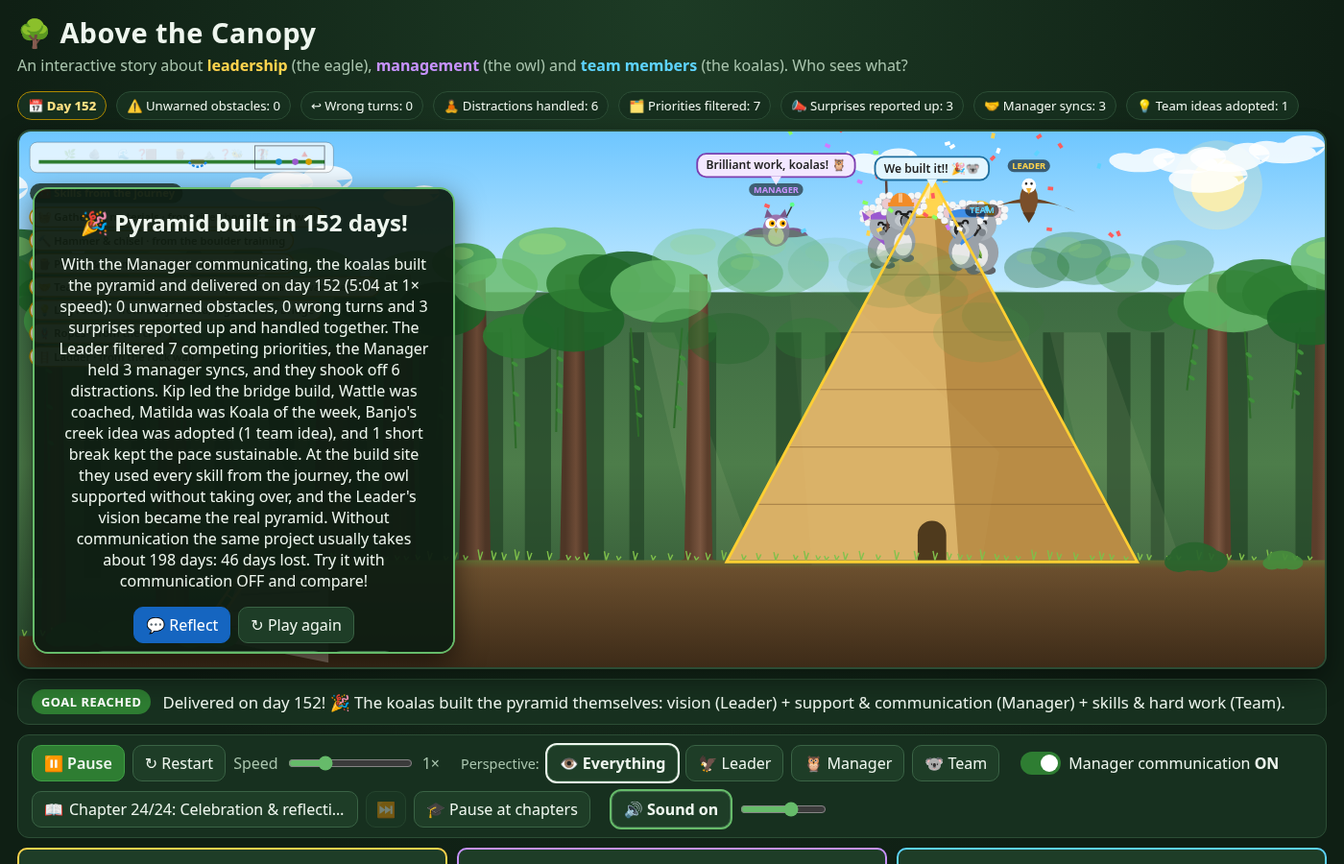
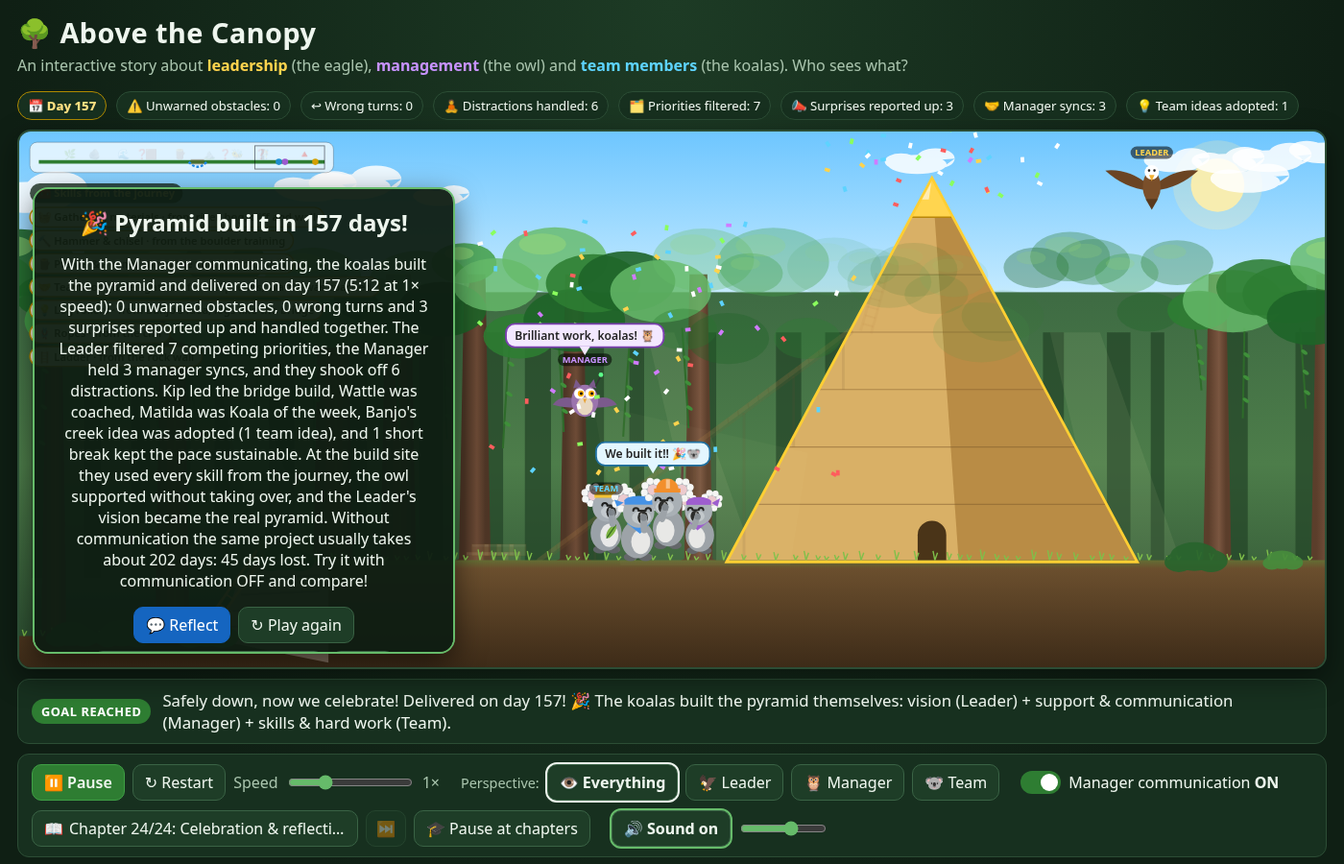
v7.1: team huddle before the build, climb down safely before celebrating
- Team huddle (TEAM HUDDLE) at the build site during the last eagle meeting: circle formation, queued turn-by-turn bubbles, plan sketched in the dirt, paws in; short confused OFF variant
- Koalas never walk on the spot: walk cycle only when actually moving, look-around while waiting
- After the capstone the koalas climb down one at a time (ladder, ramp) and celebrate on the ground; gear cleared afterwards
- Chapter text, README, docs images and typical days (157 / 202) updated

diff --git a/src/AboveTheCanopy/wwwroot/js/canopy.js b/src/AboveTheCanopy/wwwroot/js/canopy.js
@@ -325,11 +325,11 @@ function reset() {
     leader: { x: START_X + 260, y: LEADER_Y, beam: null, beamT: 0, ox: 0, oy: 0, rot: 0, dist: null, meeting: null },
     bubbles: [], queue: { leader: [], manager: [], team: [], visitor: [] }, pulses: [], events: [], particles: [],
     caption: '', phase: '', capT: 0, cap: null, capQ: [], pend: [], finished: false, introCam: 'team', selected: null, hover: -1,
-    idea: { started: false, adopted: false, go: false, goT: 0, saved: 0, bulb: false }, drop: null, leafFly: null, kb: [], kpos: [],
+    idea: { started: false, adopted: false, go: false, goT: 0, saved: 0, bulb: false }, drop: null, leafFly: null, kb: [], kpos: [], huddle: { on: false, done: false, t: 0, spk: -1, wrapT: -1, capLater: false },
     coachDone: false, breakDone: false, marks: new Set(['start']), chapter: 0, silent: false, quiet: false, tapT: 0, tapN: 0, finArgs: null, teachAt: null,
     nextLeaderTalk: 26, leaderTalkI: 0, nextCheckin: 34, checkinI: 0,
     build: { on: false, t0: 0, c: [0, 0, 0, 0, 0, 0], wrongP: 0, wrongShow: false, pl: [0, 0, 0, 0, 0, 0, 0], doneK: [], rampL: -1, rampG: 0, ladder: 0,
-      rollers: false, cap: null, capSet: false, solid: 0, stock: 0, shaped: 0, rejects: 0, skills: [], kp: null, kpOn: false, tgt: null, mt: null, mcarry: false, check: 0, climbR: null },
+      rollers: false, cap: null, capSet: false, solid: 0, stock: 0, shaped: 0, rejects: 0, skills: [], kp: null, kpOn: false, tgt: null, mt: null, mcarry: false, check: 0, climbR: null, downR: null, clearT: null },
   };
   camX = camTarget = 0;
   call('OnRestarted');
@@ -408,7 +408,8 @@ function agentPos(who) {
   if (who === 'leader') return { x: S.leader.x + S.leader.ox, y: S.leader.y + S.leader.oy };
   if (who === 'manager') return { x: S.mgr.x + S.mgr.ox, y: S.mgr.y + S.mgr.oy };
   if (who === 'visitor') return S.mgr.meeting ? mgrVisitorPos() : { x: -9999, y: 0 };
-  const B = S.build;
+  const B = S.build, Hd = S.huddle;
+  if (Hd.on && Hd.spk >= 0 && S.kpos[Hd.spk]) { const K = S.kpos[Hd.spk]; return { x: K.x, y: K.y - 60 * K.s / KOALA_SCALE }; }
   if (B.on && B.kpOn) { const ax = B.kp.reduce((a, P) => a + P.x, 0) / 4, ay = B.kp.reduce((a, P) => a + P.y, 0) / 4; return { x: ax, y: ay - 62 }; }
   const tx = S.team.x;
   const lo = laneOffset(tx);
@@ -652,6 +653,8 @@ function update(dt) {
   if (S.teachAt && S.t >= S.teachAt.t) { const i = S.teachAt.idx; S.teachAt = null; if (settings.teach) { settings.playing = false; snd.setPaused(true); call('OnTeachable', i); } }
 
   // --- team ---
+  tm.moved = tm.lastX != null && Math.abs(tm.x - tm.lastX) > 1e-4; tm.lastX = tm.x; tm.stillT = tm.moved ? 0 : (tm.stillT || 0) + dt; // v7.1: walk cycles only when actually moving
+  if (S.huddle.on) updateHuddle(dt);
   if (tm.mode === 'walk' && !S.breakDone && tm.x >= BREAK_X && !S.finished && (!settings.comms || mgFree())) startBreak();
   if (tm.mode === 'walk') {
     const next = S.obstacles.concat(S.surprises).filter(o => !o.done).sort((a, b) => a.x - b.x)[0];
@@ -668,6 +671,7 @@ function update(dt) {
     } else if (nx >= stopX) {
       tm.x = stopX;
       if (next) { next.active = true; runSeq(next.isSurprise ? surpriseSeq(next) : sequenceFor(next, next.informed), next); }
+      else if (!S.huddle.done) { if (!S.huddle.on) startHuddle(); } // v7.1: a team huddle before the build
       else if (!ld.meeting && !S.build.on && S.meetings.every(m => m.done || m.atX === Infinity)) startBuild(); // v7: then the koalas build the pyramid
     } else tm.x = nx;
   } else if (tm.mode === 'hack') {
@@ -850,14 +854,15 @@ function finish() {
   S.finished = true; tm.mode = 'done'; tm.mood = 'happy';
   sfx('fanfare');
   caption(settings.comms
-    ? `Delivered on day ${days}! 🎉 The koalas built the pyramid themselves: vision (Leader) + support & communication (Manager) + skills & hard work (Team).`
-    : `Finally delivered on day ${days}! 🎉 The koalas built the pyramid, but without communication it took a redo and many extra days.`, 'Goal reached', { force: true });
-  S.mgr.task = { kind: 'build', t: 0 }; S.mgr.busy = false; B.mt = { x: GOAL_X - 175, dy: cTop(4) - 50 - MANAGER_Y }; B.mcarry = false; // everyone gathers at the top
+    ? `Safely down, now we celebrate! Delivered on day ${days}! 🎉 The koalas built the pyramid themselves: vision (Leader) + support & communication (Manager) + skills & hard work (Team).`
+    : `Safely down at last. Finally delivered on day ${days}! 🎉 The koalas built the pyramid, but without communication it took a redo and many extra days.`, 'Goal reached', { force: true });
+  S.mgr.task = { kind: 'build', t: 0 }; S.mgr.busy = false; B.mt = { x: 5160, dy: GROUND - 150 - MANAGER_Y }; B.mcarry = false; B.clearT = S.t; // everyone celebrates on the ground
   bubble('team', 'We built it!! 🎉🐨', 5);
   later(1.0, () => bubble('manager', 'Brilliant work, koalas! 🦉', 4));
   later(1.8, () => bubble('leader', settings.comms ? 'You built the vision. Proud of every one of you! 🦅' : 'We got there in the end. Proud of you all! 🦅', 4));
   later(4.6, () => bubble('team', 'Group hug!! 🤗', 4));
-  for (let i = 0; i < 80; i++) confetti(GOAL_X + (rand() - 0.5) * 140, cTop(4) - 50, 1);
+  for (let i = 0; i < 80; i++) confetti(5250 + (rand() - 0.5) * 160, GROUND - 90, 1);
+  for (let i = 0; i < 30; i++) confetti(GOAL_X + (rand() - 0.5) * 60, CAP_BASE - 20, 1);
   S.day = days; call('OnDay', days);
   S.finArgs = [Math.round(S.t), days, tm.wrong, tm.surprises, tm.distractions, tm.priorities, tm.reported, tm.syncs, tm.ideas, tm.breaks, settings.comms];
   call('OnFinished', ...S.finArgs);
@@ -1011,6 +1016,8 @@ function stations(k, p, o = {}) {
   return [kip, ban, mat, wat];
 }
 function holdStations() { return S.build.tgt || S.build.kp.map(P => ({ x: P.x, y: P.y, face: 1 })); }
+// v7.1: where the koalas celebrate, safely back on the ground beside the pyramid (first one down walks furthest).
+function grounds() { return [[5265, 2, -1], [5230, 6, 1], [5195, 0, 1], [5300, 8, -1]].map(([x, lane, face]) => ({ x, y: GROUND, lane, face })); }
 function finals() { return FINAL.map(([dx, lane]) => ({ x: GOAL_X + dx, y: cTop(4), lane, face: dx < 0 ? 1 : -1 })); }
 // The supply line: blocks travel from the pile, paw to paw, up the ramp (on rollers, pulled by rope) and the ladder, to Kip.
 // Each point is [x, y, height of the block above the feet].
@@ -1088,6 +1095,17 @@ function buildSeq(on) {
     dur, b: 'caplift', mood: 'lift', phase: 'TEAMWORK', cap, onStart: () => { sfx('haul'); kbadge(0, '🤝 All four, together', 3.5, '#ffe082'); },
     tick: p => { B.cap.lift = p; if (p >= 1 && !B.capSet) { B.capSet = true; sfx('block'); } },
   });
+  // v7.1: after the capstone, back down one at a time (ladder, then the ramp) before anyone celebrates.
+  const down = (dur, cap, say) => ({
+    dur, b: 'down', phase: 'SAFETY', cap, say,
+    onStart: () => {
+      const K = B.kp, t4 = cTop(4), G = grounds(), P = i => [K[i].x, K[i].y];
+      const over = [[GOAL_X + 26, t4], [GOAL_X + 24, CAP_BASE], [GOAL_X - 24, CAP_BASE], [GOAL_X - 26, t4]];
+      const rest = i => [LADDER.t, LADDER.b, rampTop(3), [RAMP_FOOT, GROUND], [G[i].x, GROUND]];
+      B.downR = [0, 1, 2, 3].map(i => [P(i), ...(K[i].x > GOAL_X ? over : []), ...rest(i)]);
+    },
+    route: (i, p) => { const q = clamp((p - [0.14, 0.28, 0.42, 0][i]) / 0.56, 0, 1); return along(B.downR[i], q * q * (3 - 2 * q)); },
+  });
   const reality = (dur, cap, leaderSays) => ({
     dur, b: 'reality', phase: 'VISION → REALITY', cap, capPrio: 2,
     onStart: () => { B.capSet = true; mark('reality'); sfx('vision'); S.leader.beam = 'goal'; S.leader.beamT = 3; later(0.7, () => bubble('leader', leaderSays, 2.8, true)); },
@@ -1120,9 +1138,10 @@ function buildSeq(on) {
     climb(3.4, 'All four koalas climb to the top: this last stone goes on together.'),
     capLift(3.0, 'Together, all four lift the capstone and set it on top...'),
     reality(3.2, 'Vision becomes reality: the pyramid the team built fills the Leader\'s blueprint exactly, and the outline turns solid. ✨', 'That\'s it! That\'s the vision! 🦅✨'),
+    down(6.0, 'Safety first, right to the end: one at a time, the koalas climb back down the ladder and the ramp.', 'Careful now, one at a time! 🪜'),
   ];
   return [
-    { dur: 3.0, b: 'arrive', mood: 'confused', phase: 'No communication', cap: 'They\'ve reached the spot, but with communication OFF nobody ever told the koalas what the final product looks like.', say: 'So... what are we building? 🤔',
+    { dur: 3.0, b: 'arrive', mood: 'confused', phase: 'No communication', cap: 'They\'ve reached the spot, but with communication OFF nobody ever told the koalas what the final product looks like.', say: 'Right... where do we even start? 🤷',
       onStart: () => later(1.2, () => bubble('manager', '(...keeps it to themselves 🤐)', 2.4)) },
     { dur: 6.0, b: 'gather', gather: 'stones', lost: true, phase: 'BUILD', cap: 'They fan out for stone, unsure what they need or how much...', say: 'Big rocks? Small rocks? 🤷',
       onStart: () => skill('🧺', 'Gathering materials', 'river, bog, cliff and wall'), tick: p => { B.stock = Math.max(B.stock, [0, 1, 2, 3].filter(i => gatherPose(i, p, { lost: true }).delivered).length * 2); } },
@@ -1146,6 +1165,7 @@ function buildSeq(on) {
     climb(3.8, 'All four koalas climb to the top.'),
     capLift(3.4, 'Together they lift the capstone and set it on top...'),
     reality(3.0, 'Finally the pyramid matches the vision, but many days later than it could have.', 'There it is... at last. 🦅'),
+    down(6.4, 'Tired, the koalas climb back down carefully, one at a time.', 'Slowly... one at a time. 🪜'),
   ];
 }
 // Runs every update while building: koalas walk to their stations, blocks are counted (for sound), courses complete.
@@ -1161,10 +1181,11 @@ function updateBuild(dt) {
   if (!B.kpOn) return;
   if (st && st.route) {
     B.kp.forEach((P, i) => { const q = st.route(i, p), dx = q.x - P.x; P.mv = Math.hypot(dx, q.y - P.y) > 0.05; if (Math.abs(dx) > 0.02) P.dir = Math.sign(dx); P.x = q.x; P.y = q.y; });
-    B.tgt = finals(); return;
+    B.tgt = st.b === 'down' ? grounds() : finals(); return;
   }
   let T = st && st.st ? st.st(p) : null;
-  if (!T && (S.finished || (st && (st.b === 'caplift' || st.b === 'reality')))) T = finals();
+  if (!T && S.finished) T = grounds();
+  if (!T && st && (st.b === 'caplift' || st.b === 'reality')) T = finals();
   if (!T) T = B.tgt; if (!T) return;
   B.tgt = T;
   const V = 170 * dt;
@@ -1192,7 +1213,7 @@ function buildPoses(st, sp) {
     else if (b === 'hold') mood = st.mood || '';
     else if (near) mood = 'carry';
     else if (b === 'course' || b === 'capflow') mood = i === 2 ? 'chisel' : i === 3 && st.rope ? 'haul' : i === 3 && !on ? 'struggle' : 'work';
-    if (P.mv && Math.abs(T[i] ? T[i].y - P.y : 0) > 20 && b !== 'climb') hop = 4; // hopping up a step
+    if (P.mv && Math.abs(T[i] ? T[i].y - P.y : 0) > 20 && b !== 'climb' && b !== 'down') hop = 4; // hopping up a step
     let x = P.x;
     if (!on && b === 'course' && !P.mv) x += Math.sin(S.t * 2.1 + i * 1.7) * 5; // unsure, shuffling about
     return { x, y: P.y, lane, flip: P.mv ? P.dir < 0 : t.face < 0, carry, mood, moving: P.mv, hop };
@@ -1210,6 +1231,75 @@ function flowBlocks(st, sp) {
   return out;
 }
 function blocksIn(k, wide) { const h = wide ? cHalf(k - 1) : cHalf(k), n = Math.max(1, Math.round(2 * h / 36)); return n * 2 + 1; }
+
+
+// ---------- v7.1: the team huddle (a stand-up before the build) ----------
+// Formation: a little circle, each koala facing the middle. [dx from the team's centre, lane (depth), faces left]
+const HUDDLE = [[60, 9, true], [24, -9, true], [-24, -9, false], [-60, 9, false]];
+const HUDDLE_OFF_CAP = 'The koalas huddle too, but nobody ever told them what the final product looks like. A team can\'t self-organise around a goal it can\'t see.';
+const HUDDLE_LINES = {
+  on: [[0, 0.9, "Kip: Okay team, next steps? 👉🔺"], [2, 2.7, "Matilda: I'll shape the stone. 🔨"], [1, 4.5, "Banjo: Rollers from the logs, like the bridge! 🪵"], [3, 6.3, "Wattle: I can haul. I've got this now! 💪"]],
+  off: [[0, 0.9, "Kip: So... what's next?"], [1, 2.6, "Banjo: What are we even building? 🤔"], [2, 4.3, "Matilda: Something big? A box?"]],
+};
+function startHuddle() {
+  const H = S.huddle, on = settings.comms; H.on = true; H.t = 0; H.spk = -1; H.wrapT = -1;
+  if (on || !S.leader.meeting) caption(on ? 'The team meets to plan their next steps: teams self-organise when they understand the goal.' : HUDDLE_OFF_CAP, 'TEAM HUDDLE', { hold: 3.4 });
+  else H.capLater = true; // OFF: the Leader's meeting holds the caption bar, so say it when the huddle breaks up
+  for (const [i, at, text] of HUDDLE_LINES[on ? 'on' : 'off']) later(at, () => { if (!H.on) return; H.spk = i; bubble('team', text, 1.7, true); });
+}
+function updateHuddle(dt) {
+  const H = S.huddle, on = settings.comms; H.t += dt;
+  const talkEnd = on ? 8.1 : 6.0;
+  if (H.wrapT < 0 && H.t >= talkEnd && !S.leader.meeting) { // the plan is agreed (and the Leader's meeting is over): paws in
+    H.wrapT = H.t; H.spk = -1;
+    if (on) { sfx('support'); bubble('team', 'Paws in... GO TEAM! 🐾🙌', 1.8, true); caption('Plan agreed, paws in: everyone knows their part and how it fits the vision.', 'TEAM HUDDLE', { hold: 1.8 }); }
+    else { H.spk = 3; bubble('team', 'Wattle: Let\'s just... start? 🤷', 2.4, true); if (H.capLater) caption(HUDDLE_OFF_CAP, 'TEAM HUDDLE', { hold: 2.6 }); }
+  }
+  if (H.wrapT >= 0 && H.t - H.wrapT >= (on ? 2.4 : 2.8)) { H.on = false; H.done = true; H.spk = -1; S.team.lastX = null; }
+}
+// 0 → 1 as the koalas step into the circle, back to 0 as they step out again.
+function huddleK() {
+  const H = S.huddle, inK = ease(clamp(H.t / 0.9, 0, 1));
+  if (H.wrapT < 0) return inK;
+  const outAt = H.wrapT + (settings.comms ? 1.8 : 2.2);
+  return inK * (1 - ease(clamp((H.t - outAt) / 0.6, 0, 1)));
+}
+function huddlePoses() {
+  const H = S.huddle; if (!H.on) return null;
+  const tm = S.team, cx = tm.x - 1.5 * MEMBER_GAP, k = huddleK(), on = settings.comms;
+  const inMove = H.t < 0.9, outMove = H.wrapT >= 0 && k < 0.999 && H.t > H.wrapT + 0.5;
+  const paws = on && H.wrapT >= 0 ? clamp((H.t - H.wrapT) / 0.4, 0, 1) * k : 0;
+  return HUDDLE.map(([dx, ln, left], i) => {
+    const x0 = tm.x - i * MEMBER_GAP, lean = paws * (left ? -16 : 16);
+    const x = lerp(x0, cx + dx, k) + lean, lane = ln * k;
+    let mood = on ? '' : 'confused', flip = k > 0.5 ? left : false, hop = 0;
+    const moving = (inMove || outMove) && Math.abs(cx + dx - x0) > 1;
+    if (moving) { mood = 'walk'; flip = outMove ? false : (cx + dx < x0); }
+    else if (H.spk === i && H.wrapT < 0) { mood = on ? 'lift' : 'confused'; if (on && i === 0 && H.t < 2.6) flip = false; } // the speaker gestures (Kip points east, to the build site)
+    else if (H.wrapT < 0) hop = on ? Math.max(0, Math.sin(H.t * 5 + i * 1.3)) * 1.6 : 0; // listeners nod along
+    if (paws > 0) { mood = 'lift'; hop = Math.max(0, Math.sin((H.t - H.wrapT - 0.5) * 9)) * (H.t - H.wrapT > 0.5 && H.t - H.wrapT < 1.6 ? 9 : 0); }
+    if (!on && H.wrapT >= 0 && !moving) mood = 'confused';
+    return { x, lane, flip, mood, moving, hop };
+  });
+}
+// The plan, scratched in the dirt in the middle of the circle: a stepped triangle (ON) or a wobbly box with a "?" (OFF).
+function drawHuddleSketch() {
+  const H = S.huddle, tm = S.team, cx = tm.x - 1.5 * MEMBER_GAP, x = cx - camX, y = memberY(cx) + 3, on = settings.comms;
+  const a = huddleK(); if (a <= 0.01) return;
+  const f = clamp((H.t - 1.2) / (on ? 4.8 : 3.6), 0, 1);
+  ctx.save(); ctx.globalAlpha = a;
+  ctx.fillStyle = 'rgba(150,110,70,0.6)'; ctx.beginPath(); ctx.ellipse(x, y, 32, 8, 0, 0, 7); ctx.fill();
+  ctx.strokeStyle = '#3e2a1a'; ctx.lineWidth = 1.6; ctx.lineCap = 'round';
+  const pts = on ? [[-20, 3], [20, 3], [0, -9], [-20, 3]] : [[-15, 3], [15, 4], [14, -7], [-14, -8], [-15, 3]];
+  const segs = pts.length - 1, upto = f * segs;
+  ctx.beginPath(); ctx.moveTo(x + pts[0][0], y + pts[0][1]);
+  for (let j = 1; j <= segs; j++) { const q = clamp(upto - (j - 1), 0, 1); if (q <= 0) break; const A = pts[j - 1], B2 = pts[j]; ctx.lineTo(x + lerp(A[0], B2[0], q), y + lerp(A[1], B2[1], q)); }
+  ctx.stroke();
+  if (on && f >= 1) { ctx.lineWidth = 1; ctx.beginPath(); for (const yy of [-1, -5]) { const hw = 20 * (9 - (3 - yy)) / 12 * 0 + (yy === -1 ? 13 : 7); ctx.moveTo(x - hw, y + yy); ctx.lineTo(x + hw, y + yy); } ctx.stroke();
+    ctx.fillStyle = '#ffd34d'; ctx.font = '9px sans-serif'; ctx.textAlign = 'center'; ctx.fillText('★', x, y - 11); ctx.textAlign = 'left'; }
+  if (!on && f >= 1) { ctx.fillStyle = '#3e2a1a'; ctx.font = 'bold 11px system-ui, sans-serif'; ctx.textAlign = 'center'; ctx.fillText('?', x + 22, y - 2); ctx.textAlign = 'left'; }
+  ctx.restore();
+}
 
 // ---------- v3: surprise delays (bottom-up communication) ----------
 function surpriseSeq(sp) {
@@ -1323,7 +1413,7 @@ function updateMeeting(dt) {
       caption(d.capLeave || 'The visiting eagles fly off. The Leader keeps the beam on the vision and the team keeps going. 🔺', 'Focus');
     } else {
       S.leader.meeting = null;
-      bubble('leader', 'Keep it going. Eyes on the pyramid. 🔺', 2.4);
+      bubble('leader', 'Keep it going. Eyes on the vision. 🔺', 2.4);
     }
   }
 }
@@ -1966,7 +2056,7 @@ function drawPile(a) {
 function drawBuild() {
   const B = S.build, x = GOAL_X - camX;
   if (x < -PYR_HALF - 700 || x > viewW + PYR_HALF + 40) return;
-  const tidy = 1 - B.solid; // construction gear is cleared away as the vision becomes reality
+  const tidy = B.clearT != null ? clamp(1 - (S.t - B.clearT) / 1.6, 0, 1) : 1; // v7.1: the gear stays until everyone is safely down, then it's cleared away
   for (let k = 0; k < COURSES; k++) if (B.c[k] > 0) drawCourse(k, B.c[k], false);
   if (B.wrongP > 0) drawCourse(2, B.wrongP, true);
   if (B.solid > 0) { // the finished pyramid: smooth sandstone casing over the courses (the old v2 pyramid look)
@@ -2462,11 +2552,13 @@ function drawTeam() {
     ctx.globalAlpha = 1;
   }
   const BP = buildPoses(st, sp); // v7: on the build site the koalas have their own stations
+  const HP = huddlePoses(); if (HP) drawHuddleSketch();
   for (let i = 3; i >= 0; i--) {
     let mx = tm.x - i * MEMBER_GAP + (i === 0 ? tm.m0 : 0);
     if (st && st.struggle && i === 3) mx -= 22 + Math.sin(S.t * 3) * 3; // Wattle falls behind
     let lane = laneOffset(mx), flip = false, carry = null, crouch = 0;
-    let moving = tm.mode === 'walk' || (st && st.move != null);
+    let moving = (tm.mode === 'walk' || (st && st.move != null)) && tm.moved;
+    if (tm.mode === 'walk' && tm.stillT > 0.4 && !S.huddle.on) flip = Math.sin(S.t * 0.7 + i * 2.1) > 0.75; // waiting: stand and look around
     let mood = tm.mood;
     if (st && st.struggle && i === 3) mood = 'struggle';
     if (st && st.rest) { mood = 'rest'; flip = i < 2; mx += i < 2 ? 4 : -4; lane = 12; moving = false; }
@@ -2479,11 +2571,14 @@ function drawTeam() {
       mx = lerp(tm.x - i * MEMBER_GAP, tm.x + ROCK_FORM[i][0], k); lane = ROCK_FORM[i][1] * k; flip = ROCK_FORM[i][2] && k > 0.5;
     } else if (st && st.train) { flip = true; mood = 'learn'; }
     let gy = memberY(mx) + lane + (i === 0 ? tm.m0y : 0) + crouch;
+    let hhop = 0;
+    if (HP) { const P = HP[i]; mx = P.x; lane = P.lane; flip = P.flip; mood = P.mood; moving = P.moving; hhop = P.hop; gy = memberY(mx) + lane; }
     if (BP) { const P = BP[i]; mx = P.x; lane = P.lane; flip = P.flip; carry = P.carry; mood = P.mood; moving = P.moving; gy = P.y + lane; }
     const ph = S.t * 9 + i * 1.7;
     let bob = moving ? Math.abs(Math.sin(ph)) * 2 : 0;
     if (tm.mood === 'happy') bob = Math.abs(Math.sin(S.t * 6 + i)) * 16;
     if (BP && BP[i].hop) bob += BP[i].hop;
+    bob += hhop;
     if (tm.cheer > 0) bob += Math.abs(Math.sin(S.t * 10 + i)) * 10 * tm.cheer;
     const shake = tm.mood === 'stuck' ? Math.sin(S.t * 30 + i) * 1.5 : 0;
     if (mx > logO.x - 6 && mx < logO.x + logO.w + 6) mood = 'sneak'; // crawling through the hollow log

diff --git a/src/AboveTheCanopy/Models/Chapters.cs b/src/AboveTheCanopy/Models/Chapters.cs
@@ -86,18 +86,19 @@ public static class Chapters
             new[] { "Where is your team running without a break?", "What is skipping breaks really costing you?" },
             "Nobody calls a break: the koalas push on exhausted and slow right down."),
         new("meet:2", "Final priorities",
-            "Even near the end, new asks arrive. The Leader keeps the beam on the vision and keeps it going.",
-            new[] { "How do you stop late \"new initiatives\" from derailing delivery?" }),
+            "Even near the end, new asks arrive. The Leader keeps the beam on the vision and keeps it going. Down on the ground, the koalas hold a team huddle: who shapes the stone, who hauls, how the rollers will work. Teams self-organise when they understand the goal.",
+            new[] { "How do you stop late \"new initiatives\" from derailing delivery?", "Does your team plan its own next steps, or wait to be told?" },
+            "The koalas huddle too, but nobody ever told them what they're building (\"What are we even building?\"). A team can't self-organise around a goal it can't see."),
         new("build", "Building the final product",
             "The journey was a string of milestones where the team built knowledge and skills. Now they use them all: gathering materials, hammer and chisel, planks for a ramp, Banjo's log rollers, ropes, a ladder, Kip leading a section and a confident Wattle. The owl organises, brings stone and relays progress up, but never takes over: the koalas build.",
             new[] { "Which skills that your team built along the way make the final delivery possible?", "Does your manager support the work or take it over? What does good support look like?" },
             "Nobody told the koalas what the final product looks like: the blocks come out all different sizes, there's no owl bringing materials, and a whole course has to be torn down and rebuilt (\"Wait, was it meant to be pointy?\")."),
         new("reality", "Vision becomes reality",
-            "All four koalas set the capstone together, and the Leader's golden blueprint turns solid: the Leader held the vision, the team made it real.",
+            "All four koalas set the capstone together, and the Leader's golden blueprint turns solid: the Leader held the vision, the team made it real. Then, safety first, they climb back down one at a time before anyone celebrates.",
             new[] { "Is your team's picture of the final product clear enough to build it without you?", "Who gets the credit when the vision becomes real?" },
             "The pyramid finally matches the vision, but many days later, after the redo."),
         new("finish", "Celebration & reflection",
-            "Only once the capstone is on do they celebrate: vision (Leader) + support and communication (Manager) + skills and hard work (Team) = the final product, built together.",
+            "Only once the capstone is on and everyone is safely back on the ground do they celebrate: vision (Leader) + support and communication (Manager) + skills and hard work (Team) = the final product, built together.",
             new[] { "Which role do you play most days: eagle, owl or koala?", "What one change would help your team build its pyramid sooner?" }),
     };
 

diff --git a/README.md b/README.md
@@ -23,7 +23,7 @@ Nobody can see the whole picture on their own:
 
 The journey works when vision flows down (leader ➜ manager), warnings and plans flow down to the team (manager ➜ team), and requests and progress flow back up (team ➜ manager ➜ leader).
 Use the **Perspective** buttons to see the world through each role's eyes, and turn **Manager communication OFF**
-to watch the same koalas in the same forest get surprised, take wrong turns and take much longer (about 198 days instead of about 152), and even build the wrong shape.
+to watch the same koalas in the same forest get surprised, take wrong turns and take much longer (about 202 days instead of about 157), and even build the wrong shape.
 
 ## What happens on the journey
 
@@ -129,6 +129,14 @@ and slides into place as the team gets closer. The Leader's beam points at it ("
 
 ![The Leader's vision: a golden blueprint on the horizon](docs/vision-blueprint.png)
 
+**Team huddle** (tag **TEAM HUDDLE**). While the Leader handles the last eagle meeting, the koalas stop at the build site and hold a stand-up:
+they gather in a little circle, scratch a stepped triangle in the dirt and take turns: *Kip: "Okay team, next steps?"*, *Matilda: "I'll shape the stone."*,
+*Banjo: "Rollers from the logs, like the bridge!"*, *Wattle: "I can haul. I've got this now!"*, then paws in: *"GO TEAM!"*.
+Caption: *"The team meets to plan their next steps: teams self-organise when they understand the goal."* With communication OFF the huddle is short and confused
+(*"What are we even building?"*, a wobbly box with a "?" in the dirt). Koalas never walk on the spot: whenever they wait, they stand and look around.
+
+![The team huddle: the koalas plan their next steps around a triangle scratched in the dirt](docs/team-huddle.png)
+
 **Building the final product** (tags **BUILD**, **SUPPORT**, **DELEGATION**, **TEAM IDEA**, **TEAMWORK**). After the rest break and the last eagle meeting,
 the koalas reach the build site under the vision and build the pyramid in **6 courses**, one block at a time, along a supply line:
 Matilda shapes stone at the pile, Banjo loads at the ramp foot, Wattle passes and hauls, and Kip sets each block. Every step calls back a skill from the journey,
@@ -155,7 +163,11 @@ Caption: *"Good managers support the work, they don't take it over."*
 
 **Vision becomes reality.** The golden capstone is passed up the line, all four koalas climb to the top and set it **together**, and the blueprint
 turns solid with a chime: the pyramid the team built fills the Leader's vision exactly. Only then does the celebration start: confetti, fanfare,
-every character, and the summary with the days.
+every character, and the summary with the days. First, though, safety (tag **SAFETY**): the koalas climb back down one at a time,
+over the top, down the ladder and the ramp, to the ground beside the pyramid. The construction gear is cleared away and the celebration happens on the ground
+(*"Safely down, now we celebrate!"*).
+
+![Safety first: the koalas climb back down one at a time](docs/climb-down.png)
 
 ![The capstone is set and the vision turns solid](docs/build-vision-solid.png)
 
@@ -196,9 +208,9 @@ The button always shows the current chapter. **⏭** (or <kbd>N</kbd>) jumps to 
 | 18 | The snake | Some delays you wait out safely |
 | 19 | The rock wall | Preparation pays off |
 | 20 | Rest break | A sustainable pace beats burnout |
-| 21 | Final priorities | New asks arrive even near the end |
+| 21 | Final priorities | New asks arrive even near the end; the team huddles to plan its own next steps |
 | 22 | Building the final product | Every skill from the journey goes into the build; the Manager supports, doesn't take over |
-| 23 | Vision becomes reality | All four set the capstone together and the vision turns solid |
+| 23 | Vision becomes reality | All four set the capstone together, the vision turns solid, then they climb down safely |
 | 24 | Celebration & reflection | Vision + planning & support + skills & hard work |
 
 With communication OFF, the chapter list and the teaching cards describe what goes wrong instead (for example *"Nobody notices Wattle struggling"*).
@@ -300,17 +312,17 @@ Project time: **1 project day = 2 seconds of animation at 1× speed.**
 
 | | Project time | Real time at 1× | Unwarned obstacles | Wrong turns | Surprises reported up | Manager syncs |
 |---|---|---|---|---|---|---|
-| Communication **ON** | **about 152 days** | about 5 min (304 s) | 0 | 0 | 3 | 3 |
-| Communication **OFF** | **about 198 days** | about 6½ min (394 s) | 8 | 13 | 0 | 3 |
+| Communication **ON** | **about 157 days** | about 5 min (312 s) | 0 | 0 | 3 | 3 |
+| Communication **OFF** | **about 202 days** | about 6¾ min (404 s) | 8 | 13 | 0 | 3 |
 
 With communication ON the run also has 1 team idea adopted (the creek route saves 4 to 6 days) and 1 rest break (about 4 days).
 With communication OFF there's no idea and no break, but the exhausted koalas slow right down.
-The build itself takes about 33 days with communication ON and about 45 days OFF (the wrong-shaped course has to be redone).
+The build itself (including the climb back down) takes about 36 days with communication ON and about 48 days OFF (the wrong-shaped course has to be redone).
 
 The finish summary shows "Pyramid built in N days" and compares it with the other mode: your own result if you've run both in this session, otherwise the typical figure.
-For example: "Without communication the same project usually takes about 198 days: 46 days lost."
+For example: "Without communication the same project usually takes about 202 days: 45 days lost."
 
-![Finish summary: pyramid built in about 152 days, compared with communication OFF](docs/finish-days.png)
+![Finish summary: pyramid built in about 157 days, compared with communication OFF](docs/finish-days.png)
 Use the speed slider (0.25× to 3×) to fit your session.
 
 ### Discussion prompts
